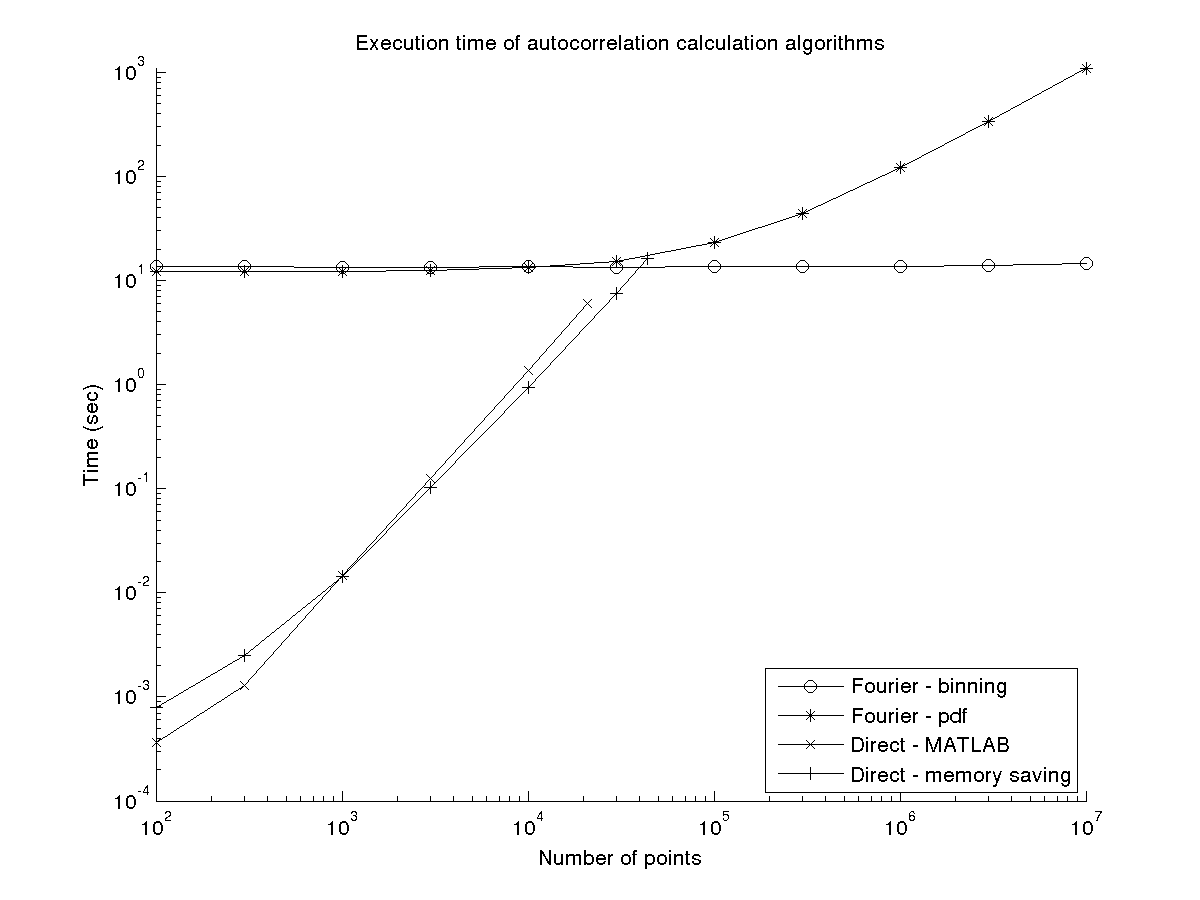
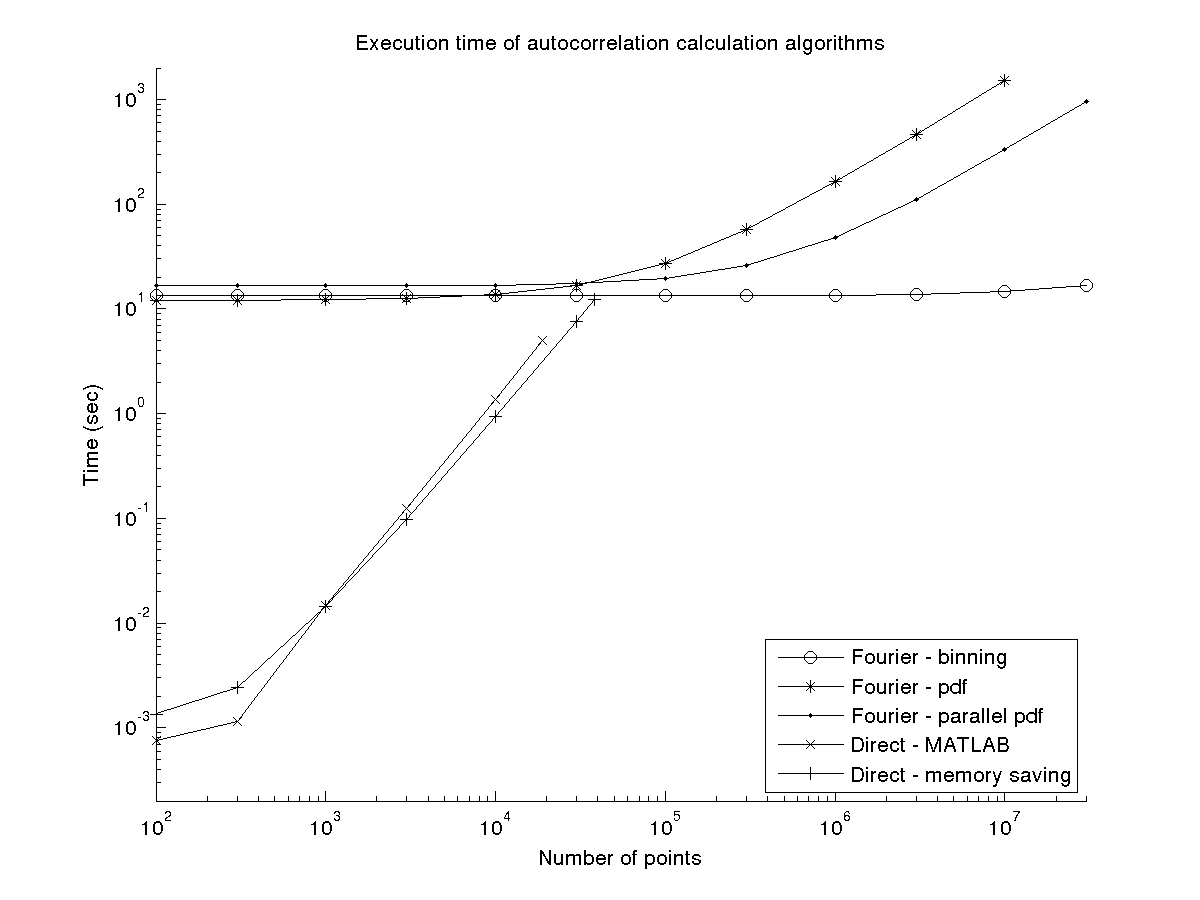
Fourier_vs_Direct v1 done

diff --git a/Direct_vs_Fourier/plot_timings_script.m b/Direct_vs_Fourier/plot_timings_script.m
@@ -14,7 +14,7 @@
 hfig = figure;
 
 % Make axes and set options
-haxes = axes('XScale', 'log', 'XLim', [1e2, 1e7], 'YScale', 'log', 'YLim', [1e-4, 1100]);
+haxes = axes('XScale', 'log', 'XLim', [1e2, 3e7], 'YScale', 'log', 'YLim', [2e-4, 2e3]);
 xlabel('Number of points');
 ylabel('Time (sec)');
 title('Execution time of autocorrelation calculation algorithms')
@@ -24,15 +24,15 @@ h1 = line(number_points_binning, binning_Fourier_times, 'Marker', 'o',...
     'Color', 'black', 'LineStyle', '-');
 h2 = line(number_points_pdf, pdf_Fourier_times, 'Marker', '*',...
     'Color', 'black', 'LineStyle', '-');
-%h3 = line(number_points_pdf_parallel, pdf_Fourier_times, 'Marker', '.',...
-%    'Color', 'black', 'LineStyle', '-');
+h3 = line(number_points_pdf_parallel, pdf_parallel_Fourier_times, 'Marker', '.',...
+    'Color', 'black', 'LineStyle', '-');
 h4 = line(number_points_direct, pdist2_direct_times, 'Marker', 'x',...
     'Color', 'black', 'LineStyle', '-');
 h5 = line(number_points_memory, custom_memory_direct_times, 'Marker', '+',...
     'Color', 'black', 'LineStyle', '-');
 
 % Add Legend
-legend('Fourier - binning','Fourier - pdf',...%'Fourier - parallel pdf',...
+legend('Fourier - binning','Fourier - pdf','Fourier - parallel pdf',...
     'Direct - MATLAB', 'Direct - memory saving','Location','southeast');
 
 % Save figure

diff --git a/Direct_vs_Fourier/get_timings_script.m b/Direct_vs_Fourier/get_timings_script.m
@@ -7,8 +7,8 @@ parpool(8);
 number_points_binning = [1e2; 3e2; 1e3; 3e3; 1e4; 3e4; 1e5; 3e5; 1e6; 3e6; 1e7; 3e7];
 number_points_pdf_parallel = [1e2; 3e2; 1e3; 3e3; 1e4; 3e4; 1e5; 3e5; 1e6; 3e6; 1e7; 3e7];
 number_points_pdf = [1e2; 3e2; 1e3; 3e3; 1e4; 3e4; 1e5; 3e5; 1e6; 3e6; 1e7];
-number_points_direct = [1e2; 3e2; 1e3; 3e3; 1e4; 2.1e4];
-number_points_memory = [1e2; 3e2; 1e3; 3e3; 1e4; 3e4; 4.3e4];
+number_points_direct = [1e2; 3e2; 1e3; 3e3; 1e4; 1.9e4];
+number_points_memory = [1e2; 3e2; 1e3; 3e3; 1e4; 3e4; 3.8e4];
 
 % Run the algorithms; ignore memory usage, it's not really useful
 [binning_Fourier_times, ~] = calc_Fourier_timing(number_points_binning, 'binning', true);
@@ -20,3 +20,5 @@ number_points_memory = [1e2; 3e2; 1e3; 3e3; 1e4; 3e4; 4.3e4];
 % Save variables
 save results.mat
 
+% Close parpool
+delete(gcp);
